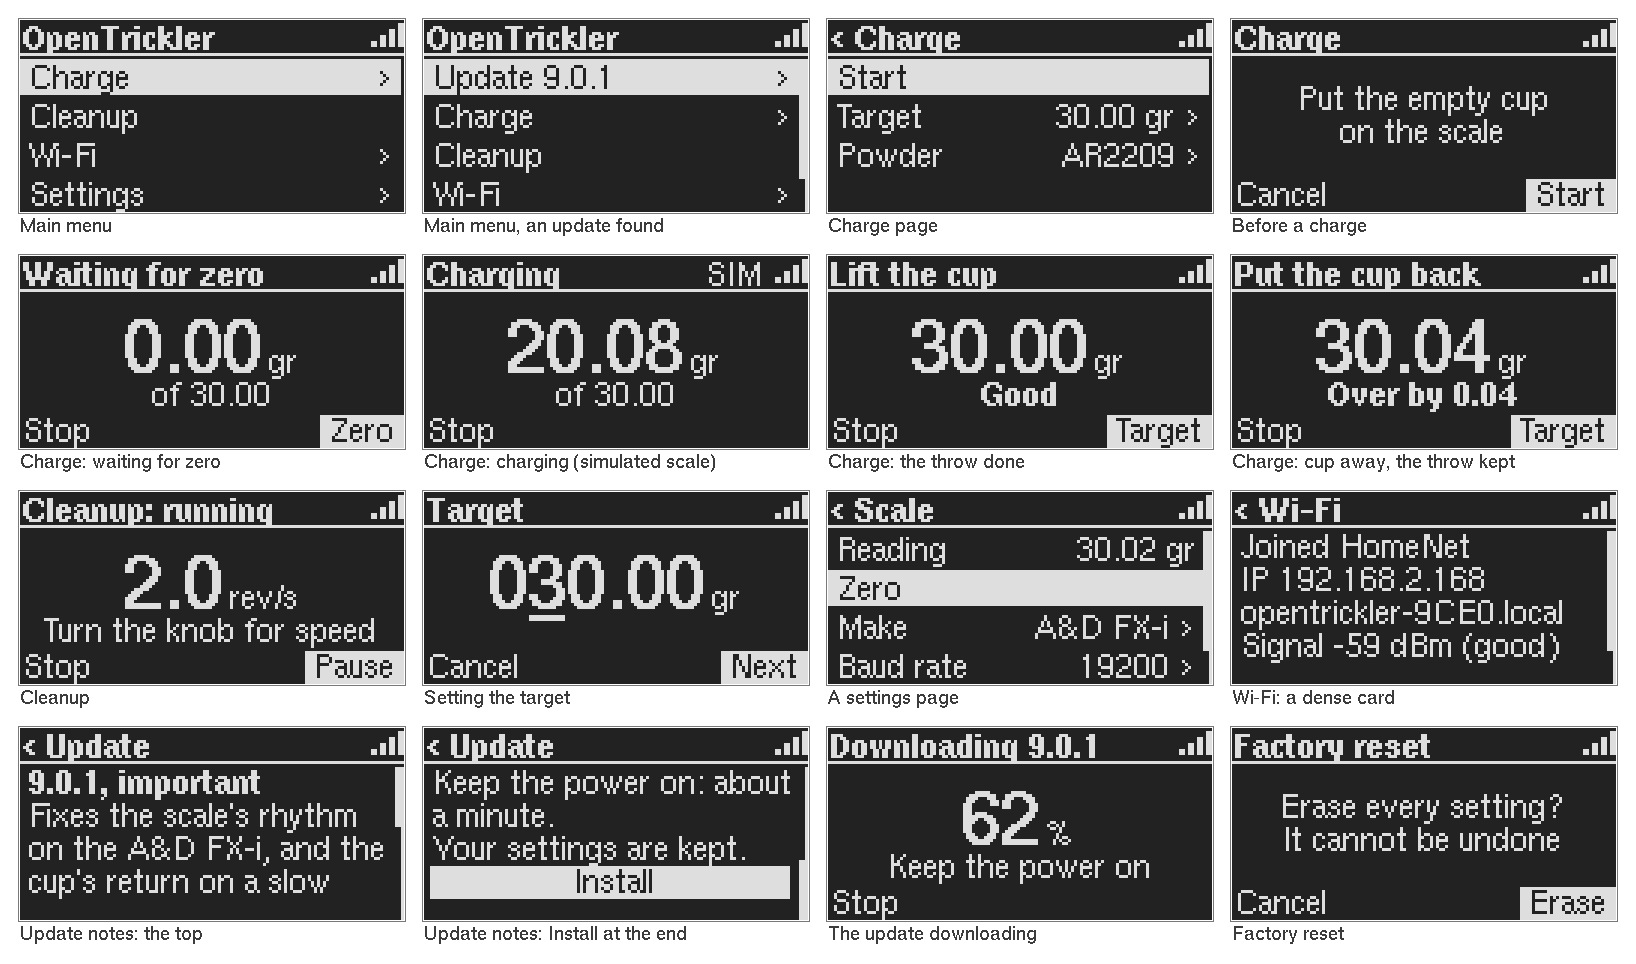
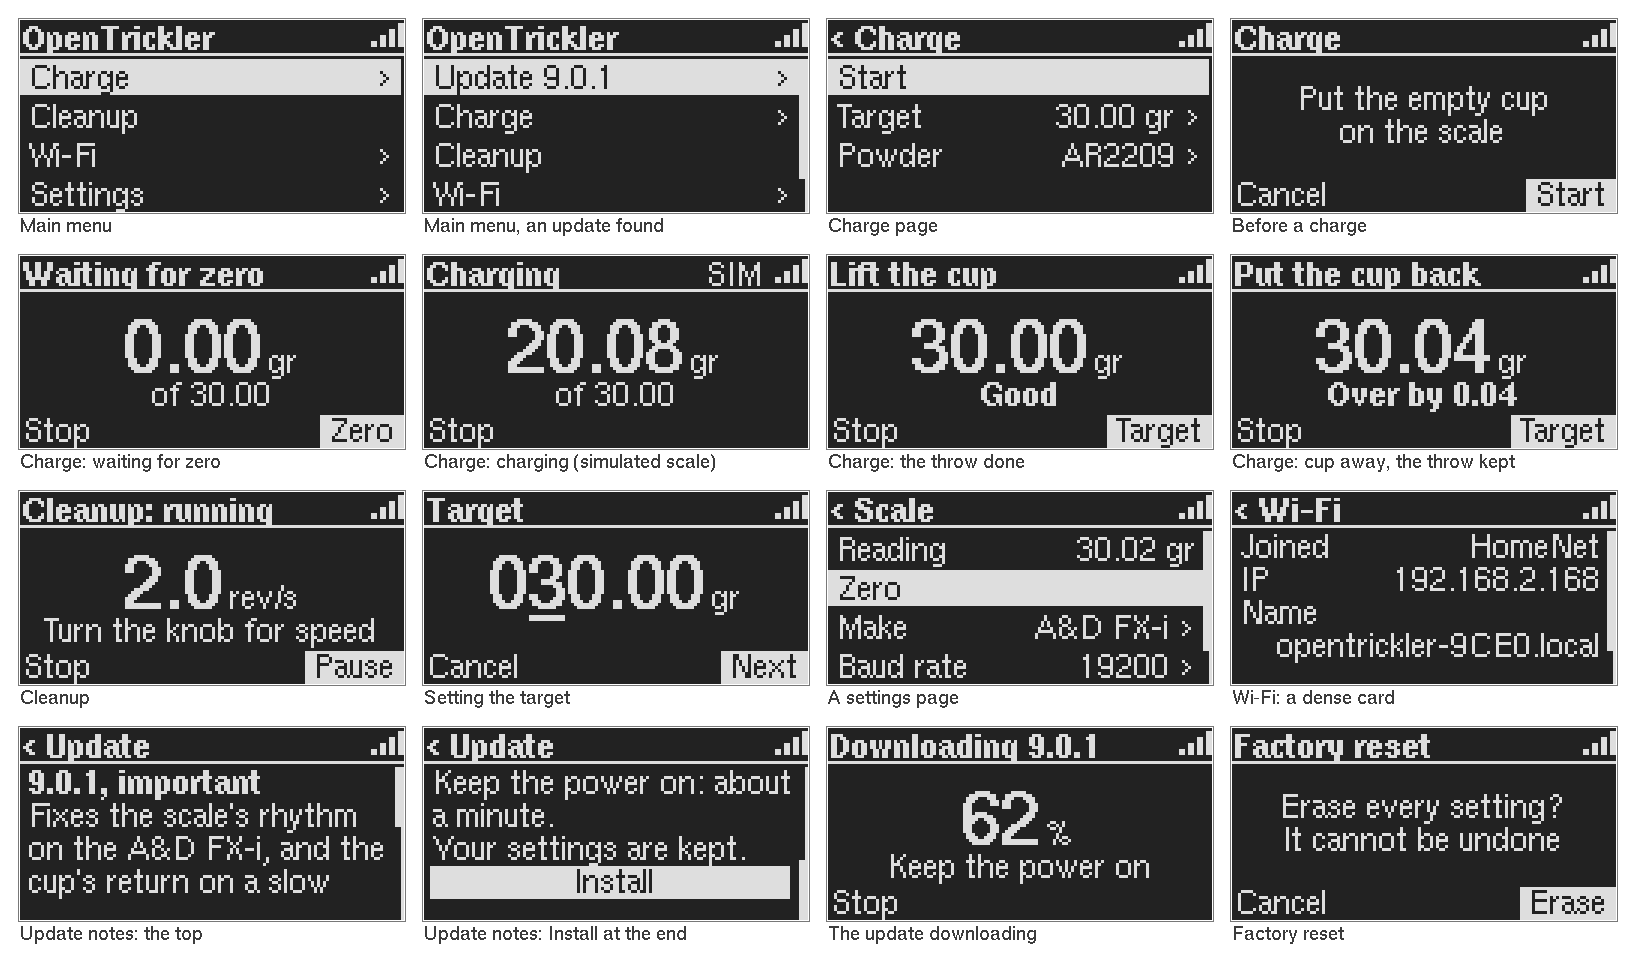
ADR-010: a card's keys at the left, their values at the right
The owner: on a key-value page like Wi-Fi, the key goes left and the value
right, or the page looks unorganized. A card's or notes' row with both is one
line, the value right-aligned; a pair too wide takes two, the value right on
the second. Wi-Fi's first line and the unit's name get keys. The console's
@line gives the value; the mock-up draws pairs alike.

Proven on the Pico W: Wi-Fi and Firmware read as pairs, menu_tour --compare
and charge_cycle pass.

Changed region(s): [[0.7482, 0.5602, 0.9976, 0.6846]]

diff --git a/src/menu_nav.c b/src/menu_nav.c
@@ -550,19 +550,25 @@ static bool wifi_is_access_point(void) {
 }
 
 
+// The link as a key, and as a station the network it joins as its value
+static const char *wifi_mode_label(void) {
+    wireless_info_t info;
+    wireless_get_link(&info);
+    if (strcmp(info.mode, "access_point") == 0) {
+        return "Its own access point";
+    }
+    if (strcmp(info.mode, "station") == 0) {
+        return info.address[0] != '\0' ? "Joined" : "Joining";
+    }
+    return "Not joined";
+}
+
+
 static void value_wifi_mode(const menu_row_t *row, char *out, size_t room) {
     (void) row;
     wireless_info_t info;
     wireless_get_link(&info);
-    if (strcmp(info.mode, "access_point") == 0) {
-        snprintf(out, room, "Its own access point");
-    }
-    else if (strcmp(info.mode, "station") == 0) {
-        snprintf(out, room, "%s %s", info.address[0] != '\0' ? "Joined" : "Joining", info.ssid);
-    }
-    else {
-        snprintf(out, room, "Not joined");
-    }
+    snprintf(out, room, "%s", strcmp(info.mode, "station") == 0 ? info.ssid : "");
 }
 
 
@@ -812,11 +818,11 @@ static const menu_page_t page_charge_change = {.id = "charge/change", .title = "
 
 // A card: each line says what it is, read only
 static const menu_row_t rows_wifi[] = {
-    {.label = "", .kind = ROW_INFO, .value = value_wifi_mode},
+    {.label = "", .kind = ROW_INFO, .value = value_wifi_mode, .label_now = wifi_mode_label},
     {.label = "Network", .kind = ROW_INFO, .value = value_wifi_network, .shown = wifi_is_access_point},
     {.label = "Key", .kind = ROW_INFO, .value = value_wifi_key, .shown = wifi_is_access_point},
     {.label = "IP", .kind = ROW_INFO, .value = value_wifi_address},
-    {.label = "", .kind = ROW_INFO, .value = value_wifi_name},
+    {.label = "Name", .kind = ROW_INFO, .value = value_wifi_name},
     {.label = "Signal", .kind = ROW_INFO, .value = value_wifi_signal, .shown = wifi_is_station},
 };
 static const menu_page_t page_wifi = {.kind = PAGE_CARD, .id = "wifi", .title = "Wi-Fi", .rows = rows_wifi,
@@ -971,11 +977,18 @@ static uint8_t wrap_into(const char *text, bool bold, char lines[][MENU_TEXT], b
 }
 
 
+// The room between a key and its value on a line, in the view's pixels
+#define NAV_PAIR_GAP 6
+// The values of lines only counted, not shown: one buffer, off the menu task's stack (only that task navigates)
+static char nav_values_unused[MENU_ROWS_MAX][MENU_TEXT];
+
 /*
- * A card's or notes' lines: each shown info row as its label and value, wrapped; on notes, the action row is the
- * button at the end (*button, NULL when none is shown). The lines' count
+ * A card's or notes' lines: each shown info row a line, its label (the key) at the left and its value at the right
+ * (values[n], "" for none). A key and a value too wide for one line take two, the value right on the second; a row
+ * with only one of them is wrapped at the left. On notes, the action row is the button at the end (*button, NULL
+ * when none is shown). The lines' count
  */
-static uint8_t page_lines(const menu_page_t *page, char lines[][MENU_TEXT], bool *bolds,
+static uint8_t page_lines(const menu_page_t *page, char lines[][MENU_TEXT], char values[][MENU_TEXT], bool *bolds,
                           const menu_row_t **button) {
     const menu_row_t *rows[MENU_ROWS_MAX];
     uint8_t shown = shown_rows(page, rows);
@@ -992,9 +1005,32 @@ static uint8_t page_lines(const menu_page_t *page, char lines[][MENU_TEXT], bool
             row->value(row, value, sizeof(value));
         }
         const char *label = row->label_now != NULL ? row->label_now() : row->label;
-        char text[UPDATE_NOTE_MAX + MENU_TEXT];
-        snprintf(text, sizeof(text), "%s%s%s", label, label[0] != '\0' && value[0] != '\0' ? " " : "", value);
-        count = wrap_into(text, row->bold, lines, bolds, count);
+        uint8_t from = count;
+        int value_w = text_width(value, false);
+        if (label[0] != '\0' && value[0] != '\0' && value_w <= nav_line_width) {
+            bool one_line = text_width(label, row->bold) + NAV_PAIR_GAP + value_w <= nav_line_width;
+            if (!one_line) {
+                count = wrap_into(label, row->bold, lines, bolds, count);
+                for (uint8_t idx = from; idx < count; idx += 1) {
+                    values[idx][0] = '\0';
+                }
+            }
+            if (count < MENU_ROWS_MAX) {
+                snprintf(lines[count], MENU_TEXT, "%s", one_line ? label : "");
+                bolds[count] = row->bold;
+                snprintf(values[count], MENU_TEXT, "%s", value);
+                count += 1;
+            }
+            continue;
+        }
+        // One of the two, or a value wider than a line: wrapped at the left, the value under its key
+        count = wrap_into(label[0] != '\0' ? label : value, row->bold, lines, bolds, count);
+        if (label[0] != '\0' && value[0] != '\0') {
+            count = wrap_into(value, false, lines, bolds, count);
+        }
+        for (uint8_t idx = from; idx < count; idx += 1) {
+            values[idx][0] = '\0';
+        }
     }
     return count;
 }
@@ -1005,7 +1041,7 @@ static uint8_t page_last_first(const menu_page_t *page) {
     char lines[MENU_ROWS_MAX][MENU_TEXT];
     bool bolds[MENU_ROWS_MAX];
     const menu_row_t *button;
-    uint8_t count = page_lines(page, lines, bolds, &button) + (button != NULL ? 1 : 0);
+    uint8_t count = page_lines(page, lines, nav_values_unused, bolds, &button) + (button != NULL ? 1 : 0);
     return count > nav_lines_shown ? (uint8_t) (count - nav_lines_shown) : 0;
 }
 
@@ -1355,7 +1391,7 @@ static void page_kind_key(frame_t *frame, menu_key_t key) {
             char lines[MENU_ROWS_MAX][MENU_TEXT];
             bool bolds[MENU_ROWS_MAX];
             const menu_row_t *button;
-            page_lines(page, lines, bolds, &button);
+            page_lines(page, lines, nav_values_unused, bolds, &button);
             if (button != NULL) {
                 button->act(button);
             }
@@ -1569,7 +1605,7 @@ static void screen_lines(menu_screen_t *screen, const frame_t *frame) {
     const menu_page_t *page = frame->page;
     screen->kind = page->kind == PAGE_NOTES ? MENU_SCREEN_NOTES : MENU_SCREEN_CARD;
     const menu_row_t *button;
-    screen->row_count = page_lines(page, screen->row_label, screen->row_bold, &button);
+    screen->row_count = page_lines(page, screen->row_label, screen->row_value, screen->row_bold, &button);
     uint8_t last = page_last_first(page);
     screen->first = frame->first < last ? frame->first : last;
     screen->focus = frame->focus < 0 ? -1 : 0;

diff --git a/tools/ui_mock/menu_12864.py b/tools/ui_mock/menu_12864.py
@@ -158,7 +158,9 @@ def dense(panel, items, at="top"):
 
     Args:
         panel: the Panel.
-        items: the page, each a paragraph, (heading, "bold"), or (label, "button", focused).
+        items: the page, each a paragraph, (heading, "bold"), (key, value, "pair") with the key at the left and its
+            value at the right (a pair too wide for a line takes two, the value right on the second), or
+            (label, "button", focused).
         at: "top" or "end", where the page is shown from.
     """
     shown = (H - CONTENT_TOP) // DENSE_H
@@ -167,6 +169,13 @@ def dense(panel, items, at="top"):
     for item in items:
         if isinstance(item, tuple) and item[1] == "button":
             lines.append(item)
+        elif isinstance(item, tuple) and item[-1] == "pair":
+            key, value = item[0], item[1]
+            if TEXT.width(key) + 6 + TEXT.width(value) <= width:
+                lines.append((key, value, "pair"))
+            else:
+                lines.extend(wrap(TEXT, key, width))
+                lines.append(("", value, "pair"))
         elif isinstance(item, tuple):
             lines.extend((line, "bold") for line in wrap(BOLD, item[0], width))
         else:
@@ -175,7 +184,10 @@ def dense(panel, items, at="top"):
     for idx, line in enumerate(lines[first:first + shown]):
         y = CONTENT_TOP + idx * DENSE_H
         base = y + DENSE_BASE
-        if isinstance(line, tuple) and line[1] == "button":
+        if isinstance(line, tuple) and line[-1] == "pair":
+            panel.text(TEXT, 3, base, line[0])
+            panel.text(TEXT, 0, base, line[1], align="right", right=3 + width)
+        elif isinstance(line, tuple) and line[1] == "button":
             if line[2]:
                 panel.rect(2, y, W - 8, DENSE_H)
                 panel.text(TEXT, 0, base, line[0], lit=False, align="center")
@@ -307,8 +319,8 @@ def screens():
     add(p, "A settings page")
 
     p = Panel(); title(p, "Wi-Fi", back=True)
-    dense(p, ["Joined HomeNet", "IP 192.168.2.168", "opentrickler-9CE0.local", "Signal -59 dBm (good)",
-              "Updates from github.com"])
+    dense(p, [("Joined", "HomeNet", "pair"), ("IP", "192.168.2.168", "pair"),
+              ("Name", "opentrickler-9CE0.local", "pair"), ("Signal", "-59 dBm", "pair")])
     add(p, "Wi-Fi: a dense card")
 
     note = [("9.0.1, important", "bold"), "Fixes the scale's rhythm on the A&D FX-i, and the cup's return on a slow "

diff --git a/src/menu_view_12864.c b/src/menu_view_12864.c
@@ -326,11 +326,18 @@ static void view_lines(const menu_screen_t *screen) {
         }
         lv_obj_set_pos(view_rows[idx], 0, top);
         lv_obj_set_size(view_rows[idx], VIEW_W - 5, VIEW_LINE_H);
-        view_reverse(view_rows[idx], false, view_row_label[idx], NULL, NULL);
+        view_reverse(view_rows[idx], false, view_row_label[idx], view_row_value[idx], NULL);
         view_font(view_row_label[idx], screen->row_bold[line] ? &menu_font_bold : &menu_font_regular);
         view_text(view_row_label[idx], screen->row_label[line]);
-        view_place(view_row_label[idx], VIEW_MARGIN, VIEW_LINE_WIDTH, VIEW_LINE_H - 3);
-        view_show(view_row_value[idx], false);
+        // A key at the left, its value at the right; the key clipped short of the value
+        const char *value = screen->row_value[line];
+        int value_w = value[0] != '\0' ? view_text_width(value, strlen(value), &menu_font_regular) + 6 : 0;
+        view_show(view_row_value[idx], value[0] != '\0');
+        if (value[0] != '\0') {
+            view_text(view_row_value[idx], value);
+            view_place(view_row_value[idx], VIEW_MARGIN, VIEW_LINE_WIDTH, VIEW_LINE_H - 3);
+        }
+        view_place(view_row_label[idx], VIEW_MARGIN, VIEW_LINE_WIDTH - value_w, VIEW_LINE_H - 3);
         view_show(view_row_more[idx], false);
     }
     view_show(view_button, button_shown);

diff --git a/src/remote_control.c b/src/remote_control.c
@@ -269,7 +269,12 @@ static void remote_control_screen_lines(const menu_screen_t *screen, remote_cont
         case MENU_SCREEN_NOTES:
         case MENU_SCREEN_DIALOG:
             for (int idx = 0; idx < screen->row_count; idx += 1) {
-                snprintf(line, sizeof(line), "@line %d \"%s\"%s%s", idx, screen->row_label[idx],
+                // A key's value, at the line's right, when it has one
+                char value[MENU_TEXT + 10] = "";
+                if (screen->row_value[idx][0] != '\0') {
+                    snprintf(value, sizeof(value), " value=\"%s\"", screen->row_value[idx]);
+                }
+                snprintf(line, sizeof(line), "@line %d \"%s\"%s%s%s", idx, screen->row_label[idx], value,
                          screen->row_bold[idx] ? " bold" : "", idx == screen->first ? " first" : "");
                 write(line, write_ctx);
             }

diff --git a/docs/developments_plans/ADR-010-lvgl/progress.md b/docs/developments_plans/ADR-010-lvgl/progress.md
@@ -666,3 +666,17 @@ pages), so the slowness was the input: a click acted at its release, and the hol
 - **Proven on the Pico W:** `menu_tour --compare` (the screen not inverted: the owner keeps Invert screen on, so it
   was turned off for the run, not stored, and put back), `charge_cycle`; a click on Settings' title goes back, the
   reset button leaves the charge's dialog.
+
+## A card's keys at the left, their values at the right (2026-11-17)
+
+The owner: "For key value type page, like the Wi-Fi, the key should be aligned to left and value aligned to the
+right. Otherwise the page will look unorganized."
+
+- **Built:** a card's or notes' row with a key and a value is one line, the key at the left and the value at the
+  right, the key clipped short of it; a pair too wide for a line takes two, the value right on the second. A row
+  with only one of them (the update's notes, its headings) is wrapped at the left as before. Wi-Fi's first line is
+  now a key ("Joined", "Joining") and the network's name, and the unit's name has its key ("Name"). The console's
+  `@line` gives the value (`value="..."`); the mock-up draws pairs the same way.
+- **Proven on the Pico W:** Wi-Fi reads Joined / IP / Name with the name under it / Signal, Firmware Version /
+  Update / Board / Unit / Build, each value at the right; `menu_tour --compare` (the screen not inverted for the
+  run) and `charge_cycle` pass. The Wi-Fi and Firmware pages saved again as the baseline.

diff --git a/.agents/skills/embedded-ui-design/SKILL.md b/.agents/skills/embedded-ui-design/SKILL.md
@@ -47,7 +47,7 @@ description: Design rules for this firmware's screen, the mini 12864 (128 x 64 p
    - **Why:** the owner, 2026-11-17: "there should be enough clearance between two lines of text so the UI looks a bit clean".
 5. **Five kinds of screen, no others.**
    - **Pages** are lists: a title, then rows of label, value and ">" when the row opens something. The focused row is in reverse.
-   - **Cards** are read-only and dense: lines of 11 px, no focus on a line, a scroll bar when they run on (Wi-Fi, Firmware's facts). Turned up past the top, the title is focused, which is Back, as on a list.
+   - **Cards** are read-only and dense: lines of 11 px, each a key at the left and its value at the right (a pair too wide for a line takes two, the value right on the second; the owner, 2026-11-17: otherwise the page looks unorganized), no focus on a line, a scroll bar when they run on (Wi-Fi, Firmware's facts). Turned up past the top, the title is focused, which is Back, as on a list.
    - **Dialogs** are a title, a message of one or two centred lines, and two softkeys (the cup's acknowledgement, a factory reset).
    - **Jobs:**
      - the title is the status ("Charging", "Lift the cup");
